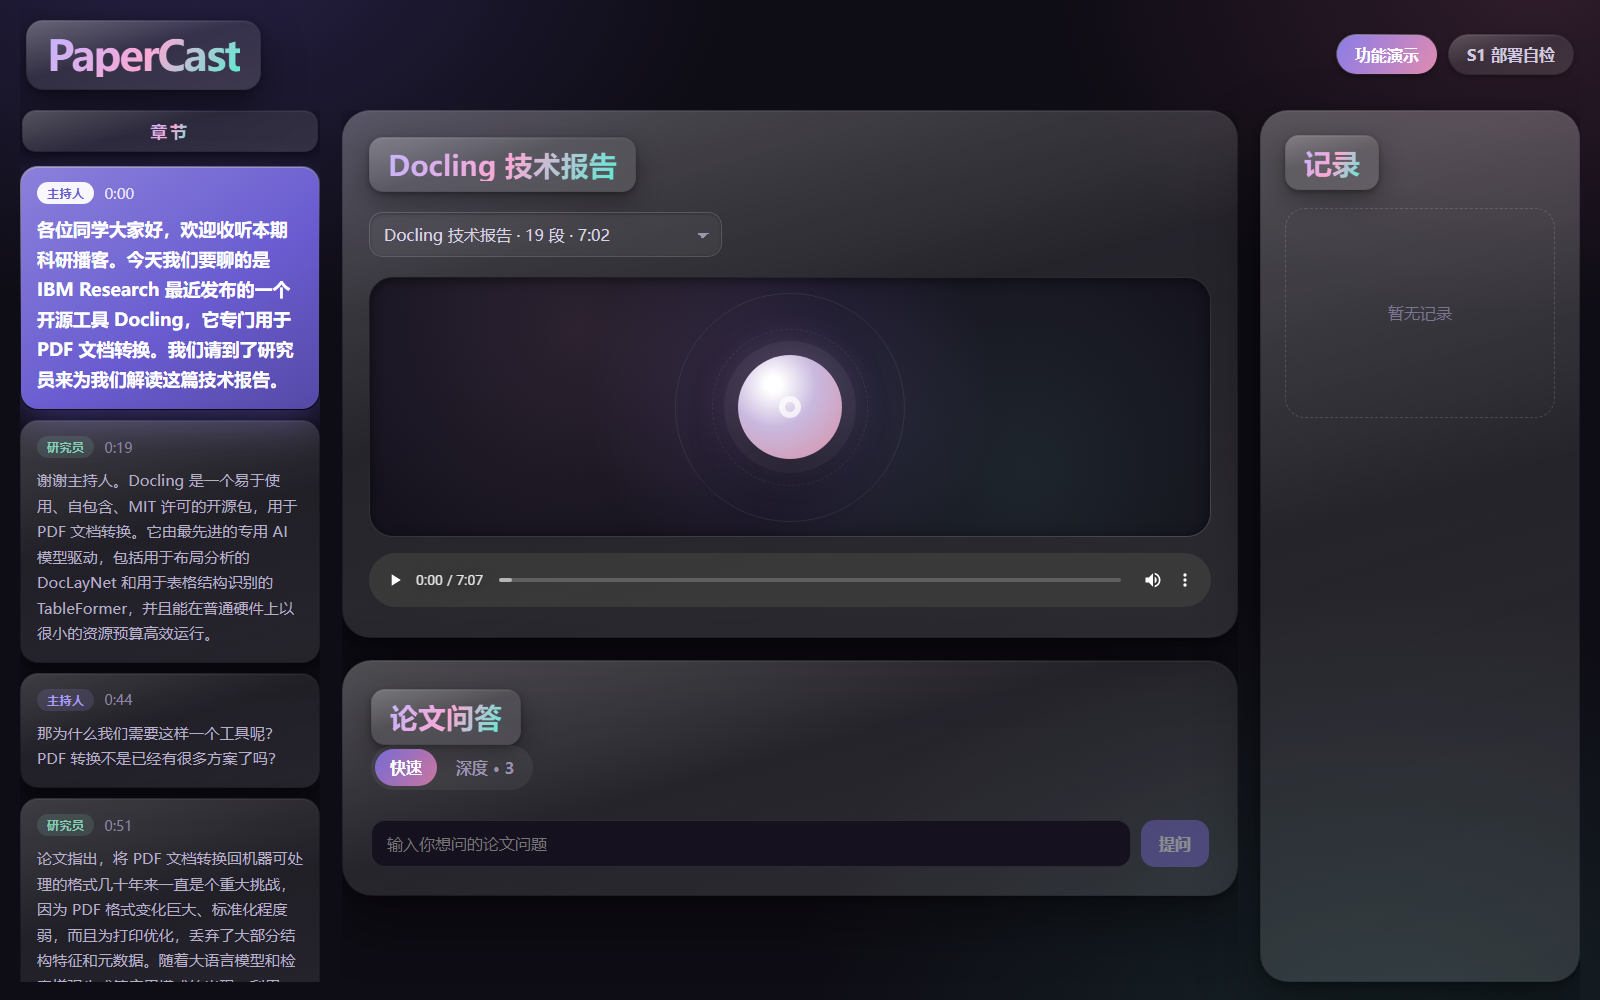
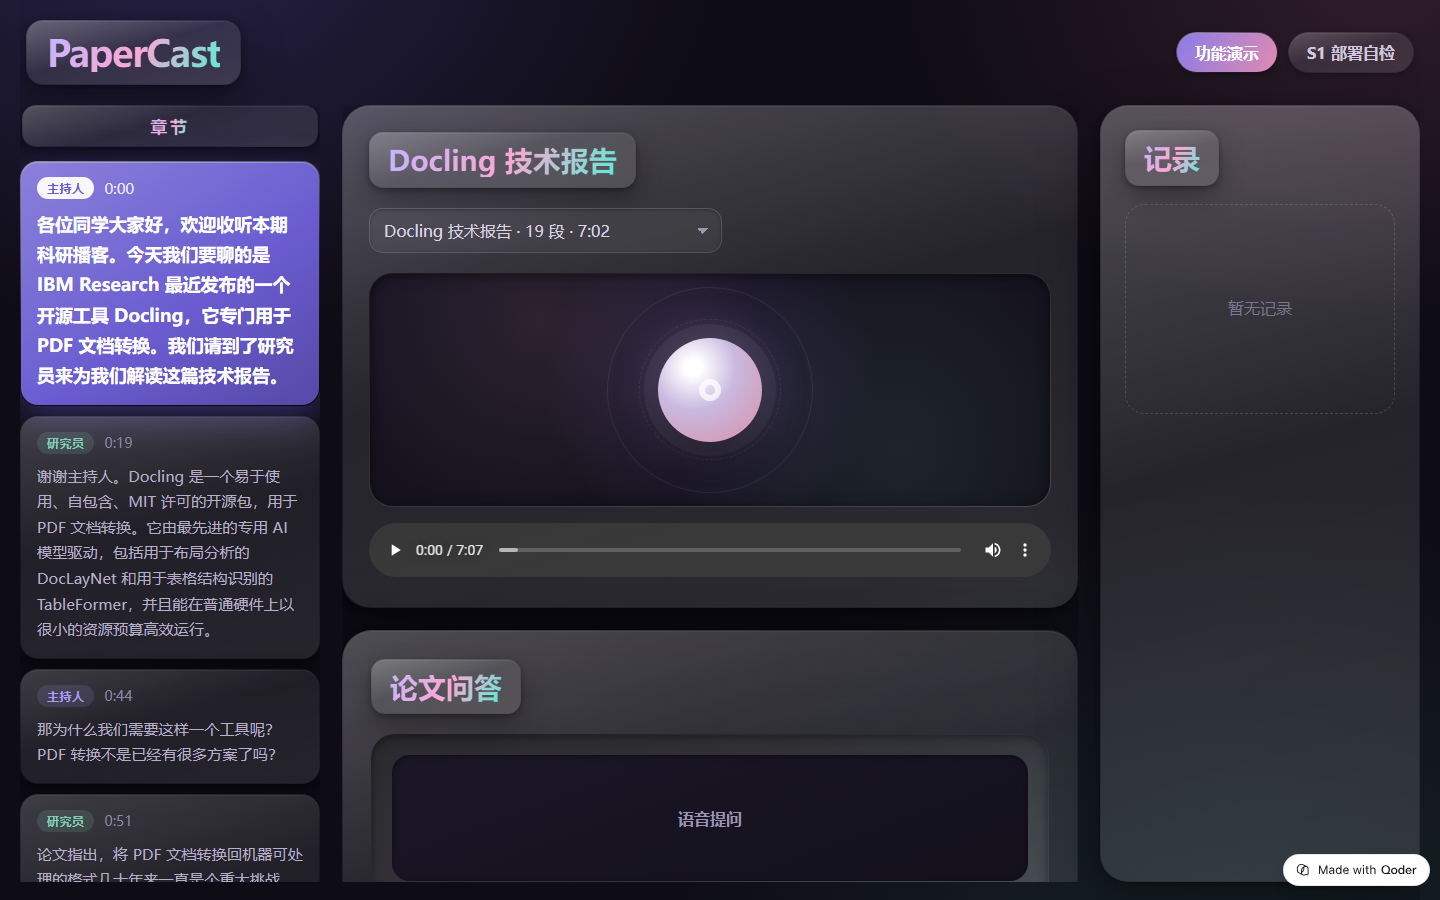
docs: finalize competition screenshots and team profile

diff --git a/papercast-poc/reports/submission_checklist.md b/papercast-poc/reports/submission_checklist.md
@@ -42,13 +42,13 @@
 - [x] 深色主题与移动端布局
 - [x] README、验收报告、演示脚本、作品帖更新
 - [x] 最终执行 `prepare:static`、构建、Deno 测试、主题断言和公网回归
-- [ ] 更新不含旧模式与次数提示的桌面/移动端截图
+- [x] 更新不含旧模式与次数提示的桌面/移动端截图
 - [ ] 修正文档与截图后推送最终 5+ 个本地提交，创建 `competition-v1.1-final` 标签
 
 ## 4. 仅提交人能完成
 
 1. 团队、成员、学校、团队 ID 和主 Qoder 账号已填写；如录制演示视频，再补视频链接。
-2. 补一张 Qoder 开发过程截图，并更新不含旧“快速/深度 · 3”界面的桌面与手机截图。
+2. 桌面、手机最终产品截图和不含密钥值的 Qoder 开发过程截图均已更新。
 3. 用 Android 或 iOS 真机打开公网，完成一次选论文、播放、文字提问和深度回答；语音入口作为可选加测项。
 4. 确认所有成员已完成天池实名认证和阿里云大学生认证，赛道选择 Hack4Good。
 5. 将最终作品帖发布到天池论坛，关联比赛，并用未登录窗口复查全部链接。

diff --git a/docs/screenshots/README.md b/docs/screenshots/README.md
@@ -1,10 +1,11 @@
 # Interface screenshots
 
-- `desktop.png`: 1600 × 1000 desktop view.
+- `desktop.png`: 1440 × 900 desktop view.
 - `mobile.png`: 500 × 1000 mobile view.
+- `qoder-development.png`: Qoder CN Sites server-side Secret configuration; names only, no values.
 
 These files show the current public production build at
 `https://papercast-ai-koyte7vo1mh.qoder.zone`.
 
-The public build uses text-only questions. If either screenshot shows a recording
-button, it is stale and must be regenerated before submission.
+The public build supports text questions and optional voice transcription. The
+recording button in the final screenshots is part of the current release.
